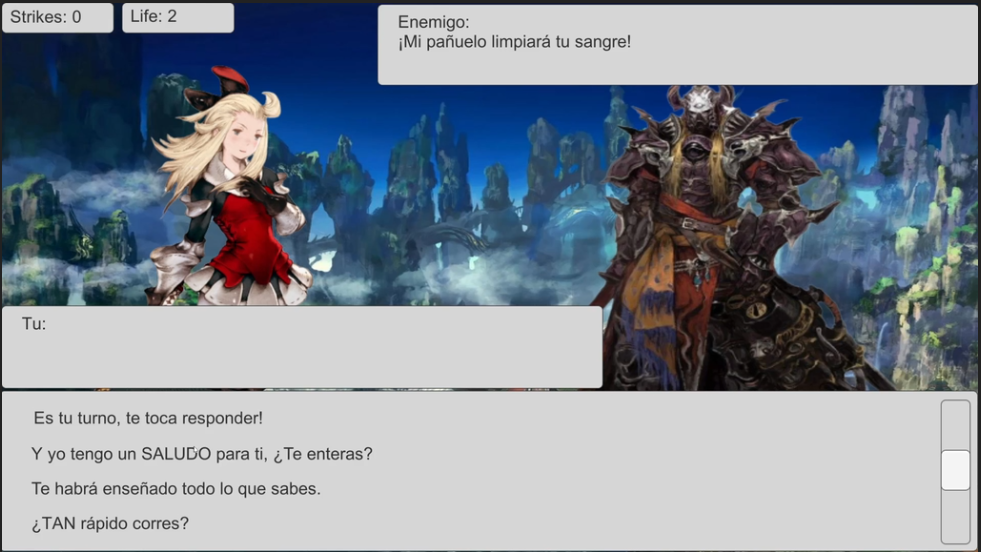
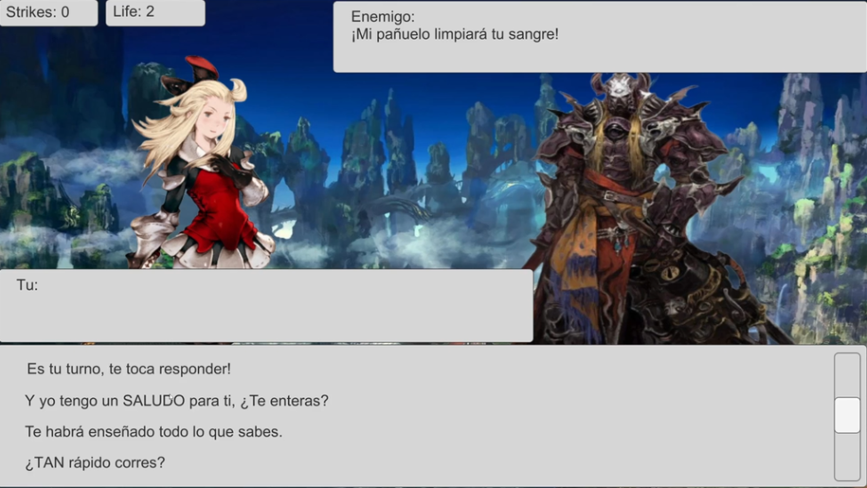
no message

diff --git a/TwilightVoidChronicles.html b/TwilightVoidChronicles.html
@@ -52,7 +52,7 @@
 								<header>
 									<u><h2>Twilight Void Chronicles</h2></u>
 									<p>&nbsp;</p>
-									<img id=" title_image" style="border:1px solid black" ; src="images/SCTwilightVoidChronicles/0.png" width="680" height="420" />
+									<img id=" title_image" class="responsive" style="border:1px solid black" ; src="images/SCTwilightVoidChronicles/0.png" width="680" height="420" />
 								</header>
 								<p>
 									The resulting product of this project is an action video game that blends mechanics and features typical of the genre with elements
@@ -143,6 +143,10 @@
 										background-color: rgb(229, 225, 225, 0.5);
 									}
 
+									.responsive {
+										max-width: 100%;
+										height:auto;
+									}
 									.modal-content {
 										margin: auto;
 										display: block;
